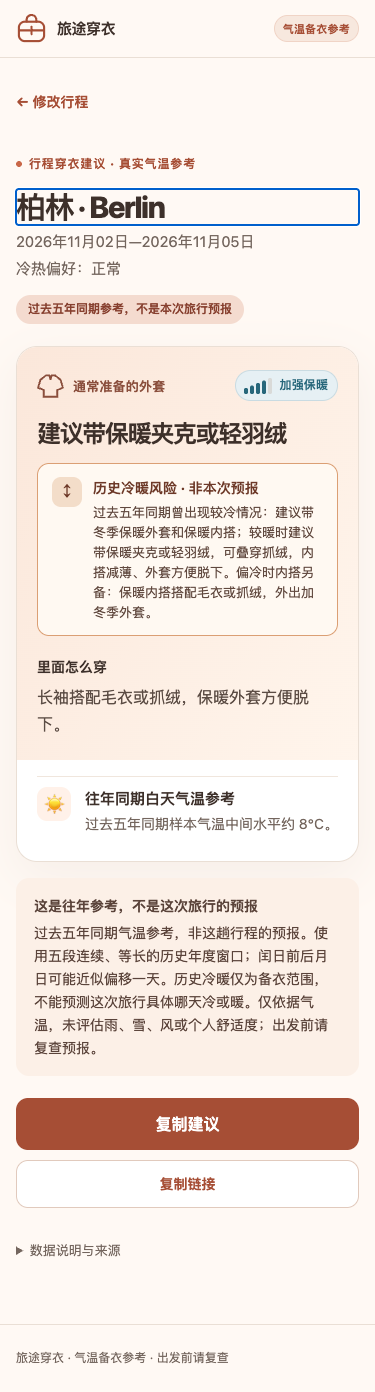
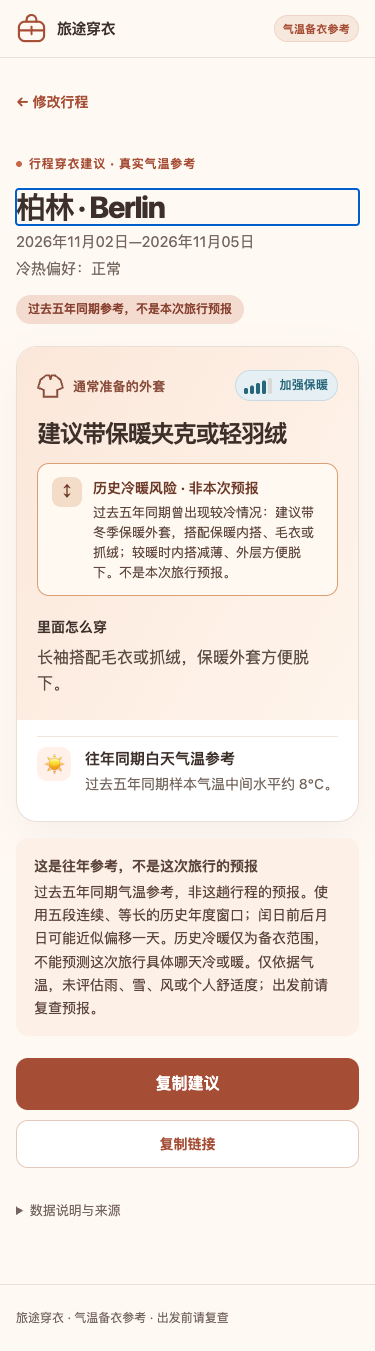
Address review P2 guidance headings and historical risk duplication

diff --git a/web/templates/index.html b/web/templates/index.html
@@ -15,7 +15,7 @@
       <section class="featured" aria-labelledby="featuredTitle"><div class="section-top"><h2 id="featuredTitle">精选城市</h2><span class="tiny-pill">10 座城市</span></div><div class="featured-summary">点开城市，直接看今起14天的穿衣参考。<span id="featuredDates"></span></div><div id="featuredGrid" class="featured-grid"></div><div class="pages"><button id="prevPage" class="page-button" type="button">上一页</button><span id="pageDisplay" class="page-display"></span><button id="nextPage" class="page-button" type="button">下一页</button></div><button id="retryFeatured" class="page-button hidden" type="button">重试加载城市</button></section>
     </div>
     <section id="result" class="result hidden" aria-live="polite"><button id="back" class="back" type="button">← 修改行程</button><div class="result-header"><div class="eyebrow" id="resultKind">行程穿衣建议</div><h1 id="resultCity">加载中</h1><p class="result-meta" id="resultDates"></p><span class="mode-tag" id="resultMode">14 天内气温预报</span></div>
-      <div id="resultStatus" class="status-panel hidden" role="status"></div><div id="resultContent" class="hidden"><article class="answer"><div class="answer-top"><div class="answer-label"><span class="answer-label-identity"><svg class="coat-icon" viewBox="0 0 24 24" fill="none" stroke="currentColor" stroke-width="1.6" aria-hidden="true"><path d="m8 3-5 4-2 7 5 2v6h12v-6l5-2-2-7-5-4h-3l-1 4-1-4H8z"/></svg><span id="coatLabel">外套建议</span></span><span id="resultWarmthMark"></span></div><h2 id="resultHeadline"></h2><div id="spanRemind" class="variation-banner hidden" role="note"><span class="variation-icon" aria-hidden="true">↕</span><div><strong>冷热变化提醒 · 示例</strong><span id="spanText"></span></div></div><h3>里面怎么穿</h3><p id="resultLayers"></p><p id="preferenceNote" class="preference-note hidden"></p></div><div class="answer-details"><div class="remind" id="temperatureNotice"><div class="remind-icon">☀</div><div><strong id="tempTitle">白天代表气温</strong><span id="tempText"></span></div></div><div class="remind" id="edgeNotice"><div class="remind-icon">🌙</div><div><strong>早晚注意分层</strong><span id="edgeText"></span></div></div></div></article>
+      <div id="resultStatus" class="status-panel hidden" role="status"></div><div id="resultContent" class="hidden"><article class="answer"><div class="answer-top"><div class="answer-label"><span class="answer-label-identity"><svg class="coat-icon" viewBox="0 0 24 24" fill="none" stroke="currentColor" stroke-width="1.6" aria-hidden="true"><path d="m8 3-5 4-2 7 5 2v6h12v-6l5-2-2-7-5-4h-3l-1 4-1-4H8z"/></svg><span id="coatLabel">外套建议</span></span><span id="resultWarmthMark"></span></div><h2 id="resultHeadline"></h2><div id="spanRemind" class="variation-banner hidden" role="note"><span class="variation-icon" aria-hidden="true">↕</span><div><strong>冷热变化提醒 · 示例</strong><span id="spanText"></span></div></div><h3>里面怎么穿</h3><p id="resultLayers"></p><p id="preferenceNote" class="preference-note hidden"></p></div><div class="answer-details"><div class="remind" id="temperatureNotice"><div class="remind-icon">☀</div><div><strong id="tempTitle">白天代表气温</strong><span id="tempText"></span></div></div><div class="remind" id="edgeNotice"><div class="remind-icon" id="edgeIcon">🌙</div><div><strong id="edgeTitle">早晚注意分层</strong><span id="edgeText"></span></div></div></div></article>
       <aside class="info"><strong id="noticeTitle">出发前再看看</strong><p id="resultNotice"></p></aside>
       <div class="result-actions"><button class="action" id="copyAdvice" type="button">复制建议</button><button class="secondary-action" id="shareTrip" type="button">复制链接</button></div><details class="data-details"><summary>数据说明与来源</summary><p class="source" id="source"></p></details>
     </div></section>

diff --git a/web/static/app.js b/web/static/app.js
@@ -157,7 +157,7 @@ async function showResult(params) {
     document.title = `${isCity ? '城市穿衣参考' : '行程穿衣建议'} · ${data.city.zh}${data.fixture ? ' · 演示' : ''}`;
     if (data.data_status === 'stale') { current = null; resultStatus(`数据已过期，暂无有效建议。查询日期：${range(data.start, data.end)}；天气获取时间：${data.weather_fetched_at || '未获取（模拟数据）'}。`, true); return; }
     $('resultStatus').classList.add('hidden'); $('resultContent').classList.remove('hidden');
-    $('coatLabel').textContent = historical ? '通常准备的外套' : '外套建议';
+    $('coatLabel').textContent = historical && data.warmth_indicator_level !== null ? '通常准备的外套' : '外套建议';
     $('resultHeadline').textContent = data.headline;
     $('resultWarmthMark').replaceChildren(data.warmth_indicator_level === null && !data.packing_variation_notice ? text('span', '暂无白天参考', 'warmth-mark') : WarmthIndicator(data.warmth_indicator_level));
     $('spanRemind').classList.toggle('hidden', !data.packing_variation_notice);
@@ -168,6 +168,10 @@ async function showResult(params) {
     $('tempTitle').textContent = historical ? '往年同期白天气温参考' : (data.fixture ? '白天的示例气温' : '白天气温参考');
     $('tempText').textContent = data.reference_temperature_c === null ? (data.packing_variation_notice ? '白天冷暖差异较大，请按上方建议备衣。' : '今天白天已过，请参考剩余晚间的备衣建议。') : (data.fixture ? `模拟数值约 ${data.reference_temperature_c}°C，不代表真实气温。` : `${historical ? '过去五年同期样本' : '所选日期白天'}气温中间水平约 ${data.reference_temperature_c}°C。`);
     const notes = data.notices.filter(note => !note.includes('今天仅使用查询时刻之后') && !note.includes('保暖需求接近'));
+    // General thickness-boundary advice is not evidence of cooler mornings/evenings.
+    const onlyEdgeGuidance = notes.every(note => note.includes('较凉') || note.startsWith('早晚示例：'));
+    $('edgeTitle').textContent = onlyEdgeGuidance ? '早晚注意分层' : '分层与厚度提示';
+    $('edgeIcon').textContent = onlyEdgeGuidance ? '🌙' : '＋';
     $('edgeText').textContent = notes.join(' ');
     $('edgeNotice').classList.toggle('hidden', !notes.length);
     $('temperatureNotice').before($('edgeNotice'));

diff --git a/web/historical_advice.py b/web/historical_advice.py
@@ -22,11 +22,16 @@ def advise(library, city, p, now, clock, downloader=None, max_missing=0):
     notice = summary = None
     if variation:
         # Deliberately discard dated forecast copy, keep the shared packing decision.
-        notice = f'过去五年同期曾出现较冷情况：{OUTER[cold]}；较暖时{OUTER[warm]}，内搭减薄、外套方便脱下。'
+        # Presentation-only garment copy: name cold outer and inner coverage once.
+        cold_layers = {
+            1: '搭配短袖和透气下装', 2: '搭配短袖或薄长袖',
+            3: '搭配短袖或薄长袖', 4: '搭配长袖和薄毛衣',
+            5: '搭配长袖、毛衣或抓绒', 6: '搭配保暖内搭、毛衣或抓绒',
+        }
+        warm_option = f'{usual_coat[warm]}，' if main is None or warm < main else ''
+        notice = (f'过去五年同期曾出现较冷情况：{usual_coat[cold]}，{cold_layers[cold]}；'
+                  f'较暖时{warm_option}内搭减薄、外层方便脱下。不是本次旅行预报。')
         summary = f'过去五年同期有冷暖差异，冷时{OUTER[cold]}，暖时减薄。'
-        if main is not None and cold > main:
-            # Keep the usual coat separate from observed cold-risk coverage.
-            notice += f'偏冷时内搭另备：{INNER[cold]}'
     notes = []
     if ref is not None and main in (4,5) and abs(ref-13)<=0.75:
         # Boundary wording must not erase an observed colder packing requirement.

diff --git a/tests/web/test_history.py b/tests/web/test_history.py
@@ -263,7 +263,7 @@ class HistoryTests(unittest.TestCase):
                         self.assertIn(outer,d[field])
                     self.assertNotIn(outer,d['headline'])
                     self.assertNotIn('偏冷情况另备',d['layers'])
-                    self.assertIn('偏冷时内搭另备',d['packing_variation_notice'])
+                    self.assertIn('搭配',d['packing_variation_notice'])
                     self.assertTrue(any('13°C' in n for n in d['notices']))
                     self.assertEqual(d['mode'],'historical_reference')
                     self.assertNotIn('2026-11',d['headline']+d['packing_variation_notice'])
@@ -282,6 +282,12 @@ class HistoryTests(unittest.TestCase):
             self.assertIn('保暖内搭', d['packing_variation_notice'])
             self.assertNotIn('2026-11', d['packing_variation_notice'])
             self.assertNotIn('偏冷情况另备', d['layers'])
+            notice = d['packing_variation_notice']
+            for garment in ('冬季保暖外套', '保暖内搭', '毛衣', '抓绒'):
+                self.assertEqual(notice.count(garment), 1)
+            self.assertNotIn('保暖夹克或轻羽绒', notice)
+            self.assertIn('较暖时内搭减薄、外层方便脱下', notice)
+            self.assertIn('不是本次旅行预报', notice)
         self.assertEqual(len(self.provider.calls), requests)
 
     def test_near_13_override_without_meaningful_cold_outlier(self):

diff --git a/docs/verification/issue27/README.md b/docs/verification/issue27/README.md
@@ -24,7 +24,7 @@ UI_BASE_URL=http://127.0.0.1:8002 node tests/web/copy-regressions.cjs
 node docs/verification/issue27/capture.cjs
 ```
 
-Results: 60 web tests and 122 clothing-rule tests pass; browser suites pass 63, 10, 35, 27, 33 and 32 checks/cases respectively. Restricted execution requires loopback/Chrome permission. All provider data is synthetic and injected: these results establish no live-weather acquisition, actual forecast accuracy or garment-science validity. No live weather calls, production data mutation, deployment or merge.
+Results: 60 web tests and 122 clothing-rule tests pass; browser suites pass 63, 10, 35, 27, 33 and 57 checks/cases respectively. Restricted execution requires loopback/Chrome permission. All provider data is synthetic and injected: these results establish no live-weather acquisition, actual forecast accuracy or garment-science validity. No live weather calls, production data mutation, deployment or merge.
 
 ## Output comparison
 
@@ -39,10 +39,10 @@ Historical example (November 2–5; four yearly samples at 8°C and one at 0°C)
 
 - Before: the headline combined the common L5 coat and extra L6 cold-risk coat; cold inner-layer text repeated in the main layers.
 - Now headline: “建议带保暖夹克或轻羽绒”.
-- Separate risk retains “冬季保暖外套和保暖内搭” plus “保暖内搭搭配毛衣或抓绒”. Typical inner layers remain long sleeves with a sweater/fleece.
+- Separate risk: “过去五年同期曾出现较冷情况：建议带冬季保暖外套，搭配保暖内搭、毛衣或抓绒；较暖时内搭减薄、外层方便脱下。不是本次旅行预报。” Each cold garment is named once within the risk block. Typical inner layers remain long sleeves with a sweater/fleece.
 - Mode prominently says “过去五年同期参考，不是本次旅行预报”. No future cold date is invented. No acquisition is repeated when preference changes.
 
-Some cold outer/inner and meaningful early-evening coverage remains explicit in overlapping notices. This intentionally preserves safety information where the existing API does not distinguish an already-covered garment from an independent colder-hours need. No frontend temperature inference or trigger changes were introduced. Near-13°C boundary advice and no-representative-level cold/warm coverage remain covered by existing regression tests.
+Meaningful early-evening coverage remains explicit when supported by the existing notices. General thickness-boundary guidance uses a neutral heading rather than an evening-risk heading. Separate cold/warm coverage in genuinely split results remains explicit; the L5/L6 risk block no longer repeats its own garment recommendations. No frontend temperature inference or trigger changes were introduced. Near-13°C boundary advice and no-representative-level cold/warm coverage remain covered by existing regression tests.
 
 ## Browser scope and visual inspection
 
@@ -53,3 +53,13 @@ Automated mobile overflow checks cover 320/375/390px (existing suites also cover
 - [Homepage](home-375.png)
 - [Forecast city detail](forecast-375.png)
 - [Historical L5 usual / L6 risk](history-375.png)
+
+## Review #5557370663 follow-up
+
+Addressed all three P2 findings on the same delivery branch:
+
+- **F1:** Conditional heading/icon uses “分层与厚度提示” for general or mixed notes, reserving “早晚注意分层” for genuine cooler-hour guidance. Browser tests render Python-derived near-13°C forecast and historical inputs with no cooler edges, verify the general guidance is visible/copied without an evening heading/icon, and verify real 20:00 cooler-hour advice retains its evening title.
+- **F2:** “通常准备的外套” requires a representative historical level. Evenly split historical samples instead use “外套建议”, retaining null bars/temperature, winter outer/inner coverage and lightweight warm alternatives. Browser tests cover both representative L5 and equal cold/warm historical samples.
+- **F3:** The historical risk composes cold outerwear plus concise inner layers once and omits the usual jacket as a redundant warmer option. The 4×8°C + 1×0°C test checks each winter garment appears exactly once, warmer/removable-layer options and non-prediction remain, for all three preferences. Existing split/near-boundary safety tests continue passing.
+
+Re-ran all six browser suites: 225 checks/cases in total, plus 60 web and 122 clothing-rule tests. The updated historical capture was visually inspected at 375px. Data acquisition, cache and clothing/risk calculations are unchanged. Tests remain entirely synthetic; no merge or deployment.
